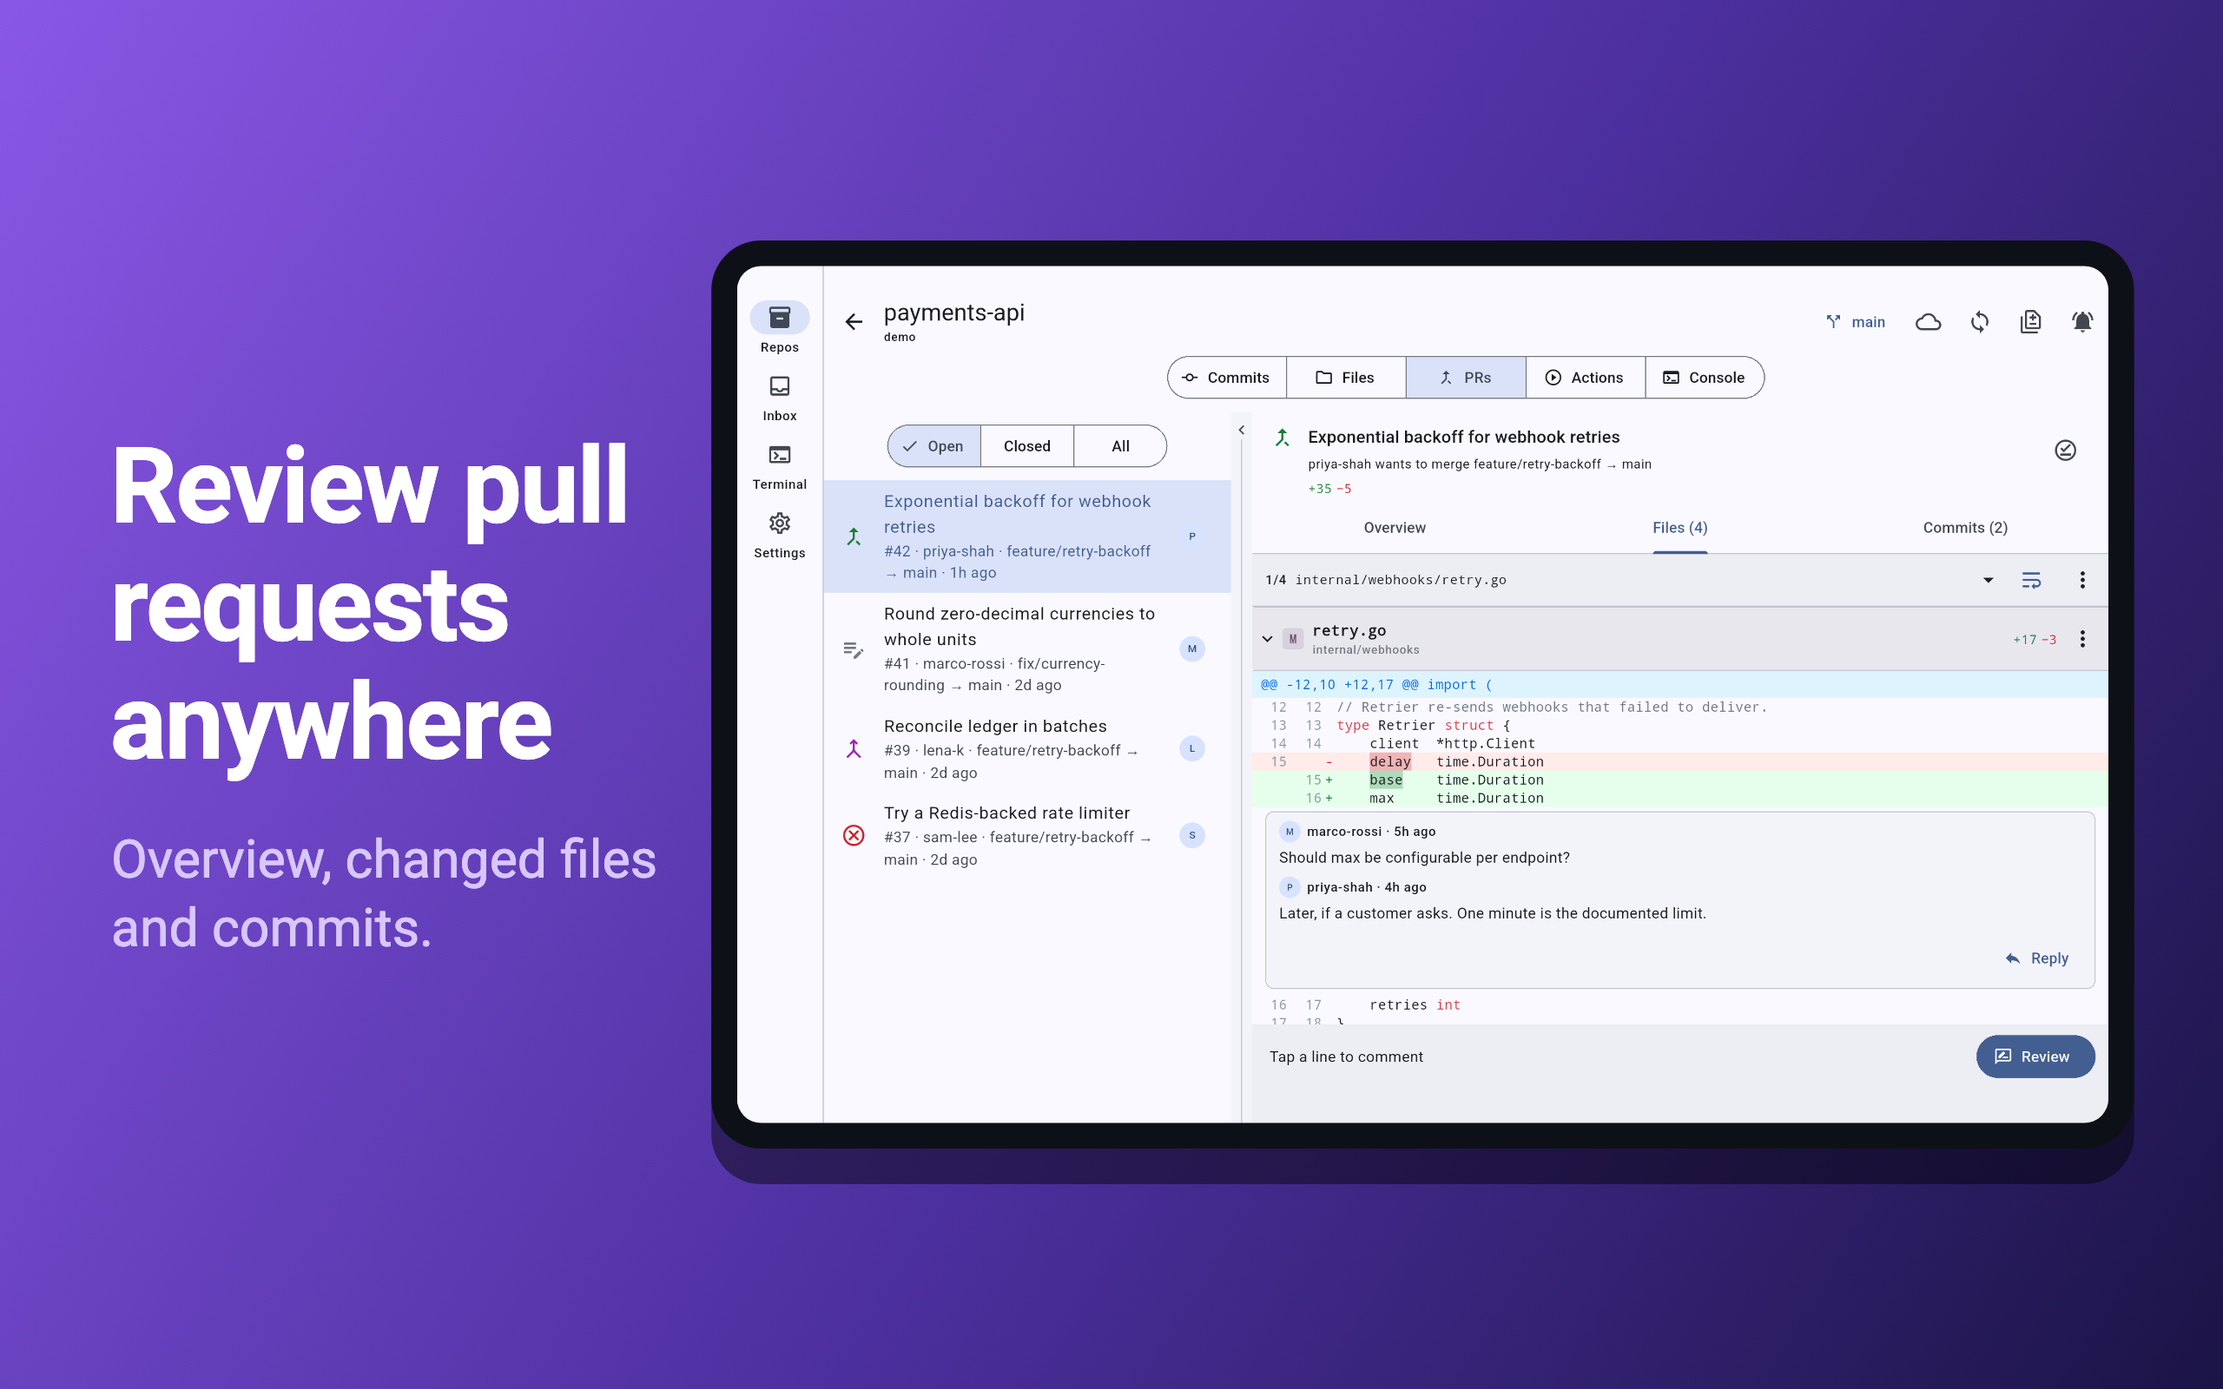
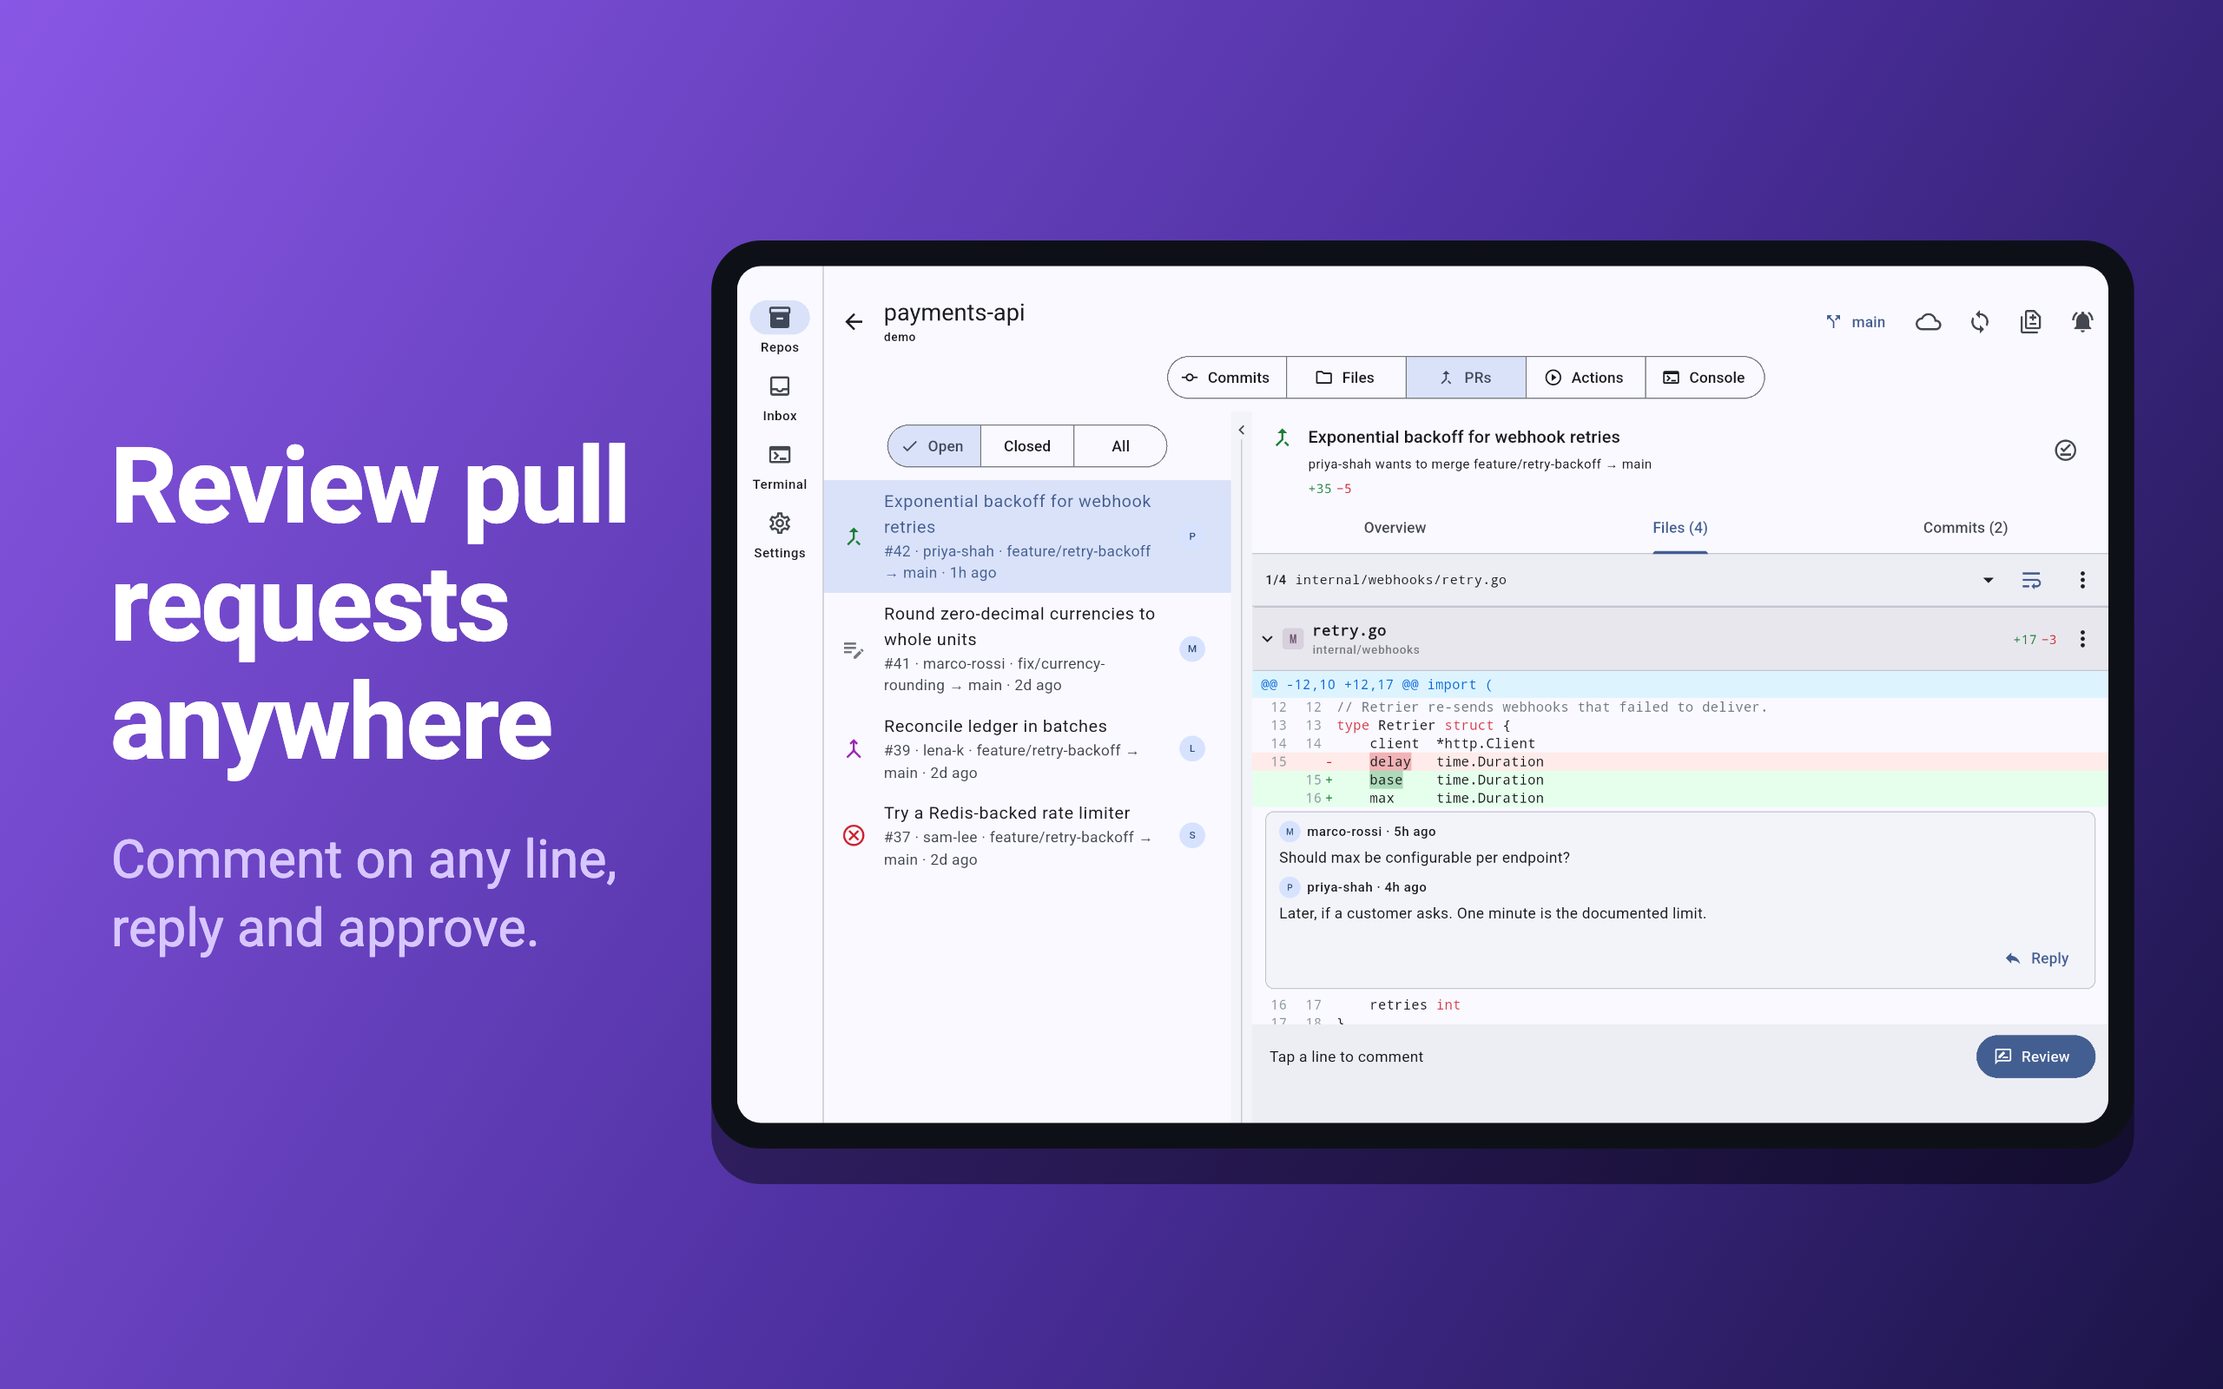
Screenshots: 10 per device for the App Store, 8 for Play
New shots: Run workflow, a file's history graph (with the commit's diff
beside it on tablets), blame and the inbox. Each store gets its own pick
in frame_test.dart: the App Store adds Run workflow and blame, Play keeps
8. Changed-since and the console were sparse and are out; the inbox
looked like the pull request shot on tablets, so it's unused too.

The GitHub Marketplace images swap full-width diff and offline mode for
Actions and the history graph.

Changed region(s): [[0.0312, 0.5938, 0.2812, 0.6875]]

diff --git a/app/tool/store/frame_test.dart b/app/tool/store/frame_test.dart
@@ -28,41 +28,88 @@ const _bezel = Color(0xFF0D1117);
 
 typedef _Shot = (String raw, String title, String subtitle);
 
-const _phone = <_Shot>[
-  ('01_repos', 'All your repos,\nyour way', 'Colored folders, pins and an archive.'),
-  ('03_diff', 'Diffs made for\nsmall screens', 'Wrapped lines and line numbers.'),
-  ('04_pull', 'Review pull requests\nanywhere', 'Overview, changed files and commits.'),
-  ('13_actions', 'Keep CI moving', 'Read logs, re-run jobs, start workflows.'),
-  ('07_offline_mode', 'Download once,\nread offline', 'For flights, trains and slow networks.'),
-  ('09_terminal', 'Your own machine,\nover SSH', 'Run git, tests and lazygit in a real terminal.'),
-  ('06_changed_since', 'Everything since\nthe last release', 'Compare any branch, tag or commit.'),
-  ('11_diff_dark', 'Easy on the eyes\nat night', 'Light and dark themes.'),
-];
+// Every caption, by raw shot. Each store gets its own pick and order below.
+const _captions = <String, (String, String)>{
+  '01_repos': ('All your repos,\nyour way', 'Colored folders, pins and an archive.'),
+  '02_commit_split': ('Commits and diffs,\nside by side', 'Built for iPad and tablets.'),
+  '03_diff': ('Diffs made for\nsmall screens', 'Wrapped lines and line numbers.'),
+  '03_diff_full_width': ('Go full width', 'Hide the list when you need the space.'),
+  '04_pull': ('Review pull requests\nanywhere', 'Comment on any line, reply and approve.'),
+  '07_offline_mode': ('Download once,\nread offline', 'For flights, trains and slow networks.'),
+  '09_terminal': ('Your own machine,\nover SSH', 'Run git, tests and lazygit in a real terminal.'),
+  '11_diff_dark': ('Easy on the eyes\nat night', 'Light and dark themes.'),
+  '13_actions': ('Keep CI moving', 'Read logs, re-run jobs, start workflows.'),
+  '14_run_workflow': ('Deploy from\nanywhere', 'Start any workflow, inputs and all.'),
+  '15_history': ('Every change to a file,\nacross branches', 'Rebases, cherry-picks and reverts linked up.'),
+  '16_blame': ('Who changed what,\nand when', 'Blame colored by age, a tap from the commit.'),
+  '17_inbox': ('Pull requests\nwaiting on you', 'Review requests and mentions, across repos.'),
+};
 
-const _tablet = <_Shot>[
-  ('02_commit_split', 'Commits and diffs,\nside by side', 'Built for iPad and tablets.'),
-  ('03_diff_full_width', 'Go full width', 'Hide the list when you need the space.'),
-  ('04_pull', 'Review pull requests\nanywhere', 'Overview, changed files and commits.'),
-  ('13_actions', 'Keep CI moving', 'Read logs, re-run jobs, start workflows.'),
-  ('07_offline_mode', 'Download once,\nread offline', 'For flights, trains and slow networks.'),
-  ('09_terminal', 'Your own machine,\nover SSH', 'Run git, tests and lazygit in a real terminal.'),
-  ('06_changed_since', 'Everything since\nthe last release', 'Compare any branch, tag or commit.'),
-  ('11_diff_dark', 'Easy on the eyes\nat night', 'Light and dark themes.'),
-];
+List<_Shot> _pick(List<String> raws) => [for (final r in raws) (r, _captions[r]!.$1, _captions[r]!.$2)];
+
+// The App Store shows up to 10 per device, Google Play up to 8. The first
+// three are what search results show, so they carry the core: browse, read
+// diffs, review. Unused raw shots: the commit list, file view, changed since,
+// downloads, console, settings, and the inbox (a short list on a phone; on a
+// tablet it looks like the pull request shot).
+final _phoneAppStore = _pick([
+  '01_repos',
+  '03_diff',
+  '04_pull',
+  '13_actions',
+  '14_run_workflow',
+  '15_history',
+  '16_blame',
+  '07_offline_mode',
+  '09_terminal',
+  '11_diff_dark',
+]);
+final _phonePlay = _pick([
+  '01_repos',
+  '03_diff',
+  '04_pull',
+  '13_actions',
+  '15_history',
+  '07_offline_mode',
+  '09_terminal',
+  '11_diff_dark',
+]);
+final _tabletAppStore = _pick([
+  '02_commit_split',
+  '03_diff_full_width',
+  '04_pull',
+  '13_actions',
+  '14_run_workflow',
+  '15_history',
+  '16_blame',
+  '07_offline_mode',
+  '09_terminal',
+  '11_diff_dark',
+]);
+final _tabletPlay = _pick([
+  '02_commit_split',
+  '03_diff_full_width',
+  '04_pull',
+  '13_actions',
+  '15_history',
+  '07_offline_mode',
+  '09_terminal',
+  '11_diff_dark',
+]);
 
 /// (raw device folder, output folder, canvas size in px, shots)
-const _targets = <(String, String, Size, List<_Shot>)>[
+final _targets = <(String, String, Size, List<_Shot>)>[
   // App Store Connect requires "iPhone with Dynamic Island (medium display)"
   // (iPhone 17 Pro: 1206 × 2622) and, for iPad apps, "iPad 13-inch display".
   // The large display (iPhone 17 Pro Max) is optional.
-  ('iphone-6.3', 'app-store/iphone-dynamic-island-medium', Size(1206, 2622), _phone),
-  ('iphone-6.9', 'app-store/iphone-dynamic-island-large', Size(1320, 2868), _phone),
-  ('ipad-13', 'app-store/ipad-13', Size(2064, 2752), _tablet),
-  ('android-phone', 'google-play/phone', Size(1080, 1920), _phone),
+  ('iphone-6.3', 'app-store/iphone-dynamic-island-medium', const Size(1206, 2622), _phoneAppStore),
+  ('iphone-6.9', 'app-store/iphone-dynamic-island-large', const Size(1320, 2868), _phoneAppStore),
+  ('ipad-13', 'app-store/ipad-13', const Size(2064, 2752), _tabletAppStore),
+  ('android-phone', 'google-play/phone', const Size(1080, 1920), _phonePlay),
   // Android tablets are shot in landscape: in portrait they're narrower than
   // the 840dp split-view breakpoint.
-  ('android-tablet-7', 'google-play/tablet-7', Size(1920, 1200), _tablet),
-  ('android-tablet-10', 'google-play/tablet-10', Size(2560, 1600), _tablet),
+  ('android-tablet-7', 'google-play/tablet-7', const Size(1920, 1200), _tabletPlay),
+  ('android-tablet-10', 'google-play/tablet-10', const Size(2560, 1600), _tabletPlay),
 ];
 
 final _repoRoot = Directory.current.path.endsWith('/app') ? Directory.current.parent.path : Directory.current.path;

diff --git a/app/integration_test/store_screenshots_test.dart b/app/integration_test/store_screenshots_test.dart
@@ -8,6 +8,7 @@ import 'package:flutter_test/flutter_test.dart';
 import 'package:git_reviewer/core/routing/app_router.dart';
 import 'package:git_reviewer/core/routing/routes.dart';
 import 'package:git_reviewer/core/storage/storage.dart';
+import 'package:git_reviewer/features/actions/run_workflow_sheet.dart';
 import 'package:git_reviewer/features/notifications/local_notifications.dart';
 import 'package:git_reviewer/features/repos/repo_library.dart';
 import 'package:git_reviewer/features/settings/settings_screen.dart';
@@ -104,6 +105,38 @@ void main() {
     await tester.tap(find.text('Fix rounding of JPY amounts').first);
     await _settle(tester, frames: 30);
     await shot('13_actions');
+
+    // Run workflow, filled in for the manual Deploy workflow.
+    await go(Routes.repo(DemoGitHub.repo, tab: 'actions'));
+    await tester.tap(find.text('Run workflow'));
+    await _settle(tester, frames: 20);
+    await tester.tap(find.text('CI').last);
+    await _settle(tester);
+    await tester.tap(find.text('Deploy').last);
+    await _settle(tester, frames: 20);
+    await tester.enterText(find.widgetWithText(TextField, 'version'), 'v1.4.0');
+    await shot('14_run_workflow');
+    Navigator.of(tester.element(find.byType(RunWorkflowSheet)), rootNavigator: true).pop();
+    await _settle(tester);
+
+    await go(Routes.history(DemoGitHub.repo, DemoGitHub.retryGo, 'main'));
+    if (split) {
+      // A commit's diff beside the graph, rather than an empty detail pane.
+      await tester.tap(find.text('Cap backoff at one minute').first);
+      await _settle(tester, frames: 30);
+    }
+    await shot('15_history');
+
+    await go(Routes.file(DemoGitHub.repo, DemoGitHub.retryGo, 'main', blame: true));
+    await shot('16_blame');
+
+    // The inbox, with the pull request beside it when split.
+    await go(Routes.inbox);
+    if (split) {
+      await tester.tap(find.text(DemoGitHub.openPullTitle).first);
+      await _settle(tester, frames: 30);
+    }
+    await shot('17_inbox');
 
     if (split) {
       await go(Routes.repo(DemoGitHub.repo, tab: 'files'));

diff --git a/store/github_marketplace_assets.py b/store/github_marketplace_assets.py
@@ -17,7 +17,7 @@ ROOT = Path(__file__).resolve().parent.parent
 OUT = ROOT / 'store/screenshots/github-marketplace'
 RAW = ROOT / 'app/build/store/raw/android-tablet-10'
 CHROME = '/Applications/Google Chrome.app/Contents/MacOS/Google Chrome'
-SHOTS = ['02_commit_split', '04_pull', '03_diff_full_width', '07_offline_mode', '09_terminal']
+SHOTS = ['02_commit_split', '04_pull', '13_actions', '15_history', '09_terminal']
 
 
 def logo_svg() -> str:

diff --git a/store/README.md b/store/README.md
@@ -37,22 +37,25 @@ Folder names the frame tool expects, and the devices that produce the right size
 - **Start the emulators with `-gpu host`** (`emulator -avd Shots_Phone -gpu host`). With less than about 5 GB of free
   memory the emulator otherwise falls back to software rendering, and the app dies mid-run ("Service has disappeared").
 
-The captions live in `app/tool/store/frame_test.dart`:
+The captions and each store's pick live in `app/tool/store/frame_test.dart`. The App Store takes up to 10 screenshots
+per device and Google Play up to 8, so the App Store gets two more:
 
-| # | Phone | Tablet |
-|---|---|---|
-| 1 | All your repos, your way | Commits and diffs, side by side |
-| 2 | Diffs made for small screens | Go full width |
-| 3 | Review pull requests anywhere | Review pull requests anywhere |
-| 4 | Keep CI moving | Keep CI moving |
-| 5 | Download once, read offline | Download once, read offline |
-| 6 | Your own machine, over SSH | Your own machine, over SSH |
-| 7 | Everything since the last release | Everything since the last release |
-| 8 | Easy on the eyes at night | Easy on the eyes at night |
+| # | iPhone (App Store) | Android phone (Play) | iPad (App Store) | Android tablets (Play) |
+|---|---|---|---|---|
+| 1 | All your repos, your way | All your repos, your way | Commits and diffs, side by side | Commits and diffs, side by side |
+| 2 | Diffs made for small screens | Diffs made for small screens | Go full width | Go full width |
+| 3 | Review pull requests anywhere | Review pull requests anywhere | Review pull requests anywhere | Review pull requests anywhere |
+| 4 | Keep CI moving | Keep CI moving | Keep CI moving | Keep CI moving |
+| 5 | Deploy from anywhere | Every change to a file, across branches | Deploy from anywhere | Every change to a file, across branches |
+| 6 | Every change to a file, across branches | Download once, read offline | Every change to a file, across branches | Download once, read offline |
+| 7 | Who changed what, and when | Your own machine, over SSH | Who changed what, and when | Your own machine, over SSH |
+| 8 | Download once, read offline | Easy on the eyes at night | Download once, read offline | Easy on the eyes at night |
+| 9 | Your own machine, over SSH | | Your own machine, over SSH | |
+| 10 | Easy on the eyes at night | | Easy on the eyes at night | |
 
-Google Play takes at most 8 screenshots per device type, so a new shot replaces one. The raw run also captures the
-commit list, file view, downloads, console and settings (`app/build/store/raw/`), so a caption can be swapped in
-`frame_test.dart` without retaking anything.
+The first three carry the core (browse, read diffs, review), since search results show only those. The raw run also
+has the commit list, file view, changed-since, downloads, console, settings and inbox (`app/build/store/raw/`), so a
+pick can change in `frame_test.dart` without retaking anything.
 
 ## Name and trademarks
 

diff --git a/README.md b/README.md
@@ -25,9 +25,9 @@ your own token if you sign in (optional: public repos work without an account), 
   <img src="store/screenshots/google-play/phone/04_actions.png" width="23%" alt="Keep CI moving">
 </p>
 <p align="center">
-  <img src="store/screenshots/google-play/phone/05_offline_mode.png" width="23%" alt="Download once, read offline">
-  <img src="store/screenshots/google-play/phone/06_terminal.png" width="23%" alt="Your own machine, over SSH">
-  <img src="store/screenshots/google-play/phone/07_changed_since.png" width="23%" alt="Everything since the last release">
+  <img src="store/screenshots/google-play/phone/05_history.png" width="23%" alt="Every change to a file, across branches">
+  <img src="store/screenshots/google-play/phone/06_offline_mode.png" width="23%" alt="Download once, read offline">
+  <img src="store/screenshots/google-play/phone/07_terminal.png" width="23%" alt="Your own machine, over SSH">
   <img src="store/screenshots/google-play/phone/08_diff_dark.png" width="23%" alt="Easy on the eyes at night">
 </p>
 
@@ -43,11 +43,11 @@ your own token if you sign in (optional: public repos work without an account), 
   <img src="store/screenshots/google-play/tablet-10/04_actions.png" width="49%" alt="Keep CI moving">
 </p>
 <p align="center">
-  <img src="store/screenshots/google-play/tablet-10/05_offline_mode.png" width="49%" alt="Download once, read offline">
-  <img src="store/screenshots/google-play/tablet-10/06_terminal.png" width="49%" alt="Your own machine, over SSH">
+  <img src="store/screenshots/google-play/tablet-10/05_history.png" width="49%" alt="Every change to a file, across branches">
+  <img src="store/screenshots/google-play/tablet-10/06_offline_mode.png" width="49%" alt="Download once, read offline">
 </p>
 <p align="center">
-  <img src="store/screenshots/google-play/tablet-10/07_changed_since.png" width="49%" alt="Everything since the last release">
+  <img src="store/screenshots/google-play/tablet-10/07_terminal.png" width="49%" alt="Your own machine, over SSH">
   <img src="store/screenshots/google-play/tablet-10/08_diff_dark.png" width="49%" alt="Easy on the eyes at night">
 </p>
 </details>

diff --git a/CHANGELOG.md b/CHANGELOG.md
@@ -7,7 +7,8 @@ Releases are tagged `vX.Y.Z` on `main` and published as GitHub releases with the
 ## Unreleased
 
 - Store screenshots and the README show GitHub Actions (a failed run, its jobs and the Re-run buttons; the run list
-  beside it on tablets). It replaces the API console on phones and file browsing on tablets: Google Play takes 8.
+  beside it on tablets) and a file's history graph. The App Store gets 10 per device (adding Run workflow and blame),
+  Google Play 8. The sparse changed-since and console shots are out.
 - Skipped jobs no longer show a "0s" duration.
 - `make run DEVICE=<id>` picks the device, like the test targets, and `MODE=profile` or `MODE=release` builds
   in that mode (debug by default). No app changes.

diff --git a/store/github-marketplace.md b/store/github-marketplace.md
@@ -94,8 +94,8 @@ Screenshot captions, in order:
 
 1. `Commits and diffs side by side on a tablet`
 2. `Review pull requests: line comments, replies, and approvals`
-3. `Full-width diffs with syntax highlighting`
-4. `Downloaded repos open with no connection`
+3. `GitHub Actions: runs, jobs, logs, and re-runs`
+4. `A file's history across branches, with rebases and reverts linked`
 5. `A real terminal to your own machine for git and lazygit`
 
 ## Pricing plan
